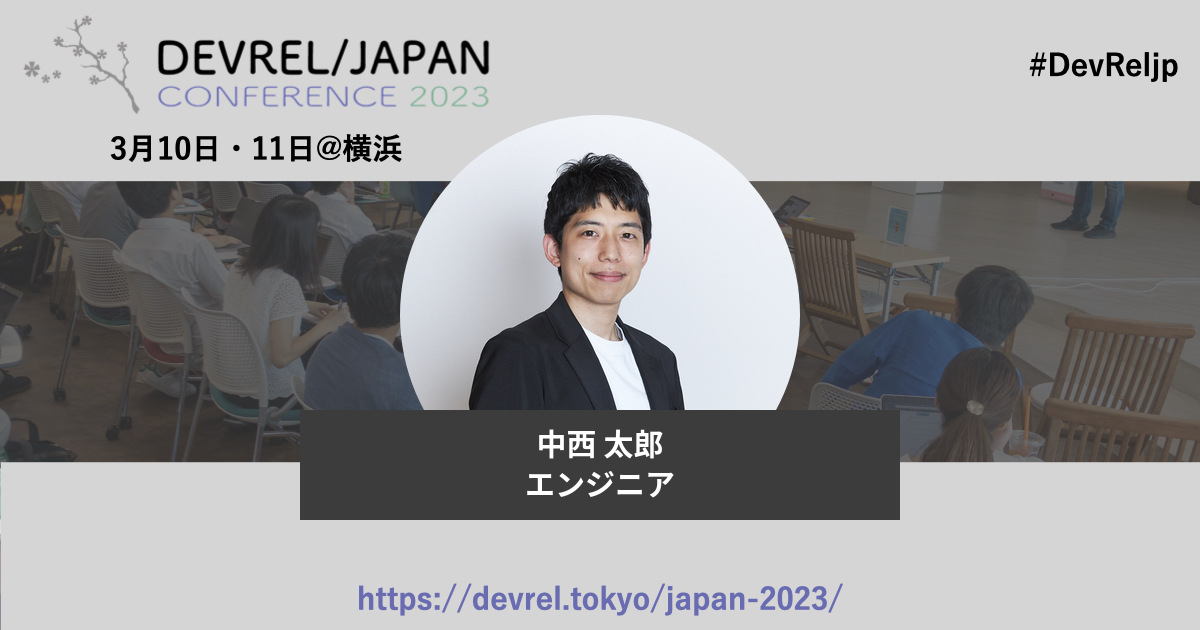
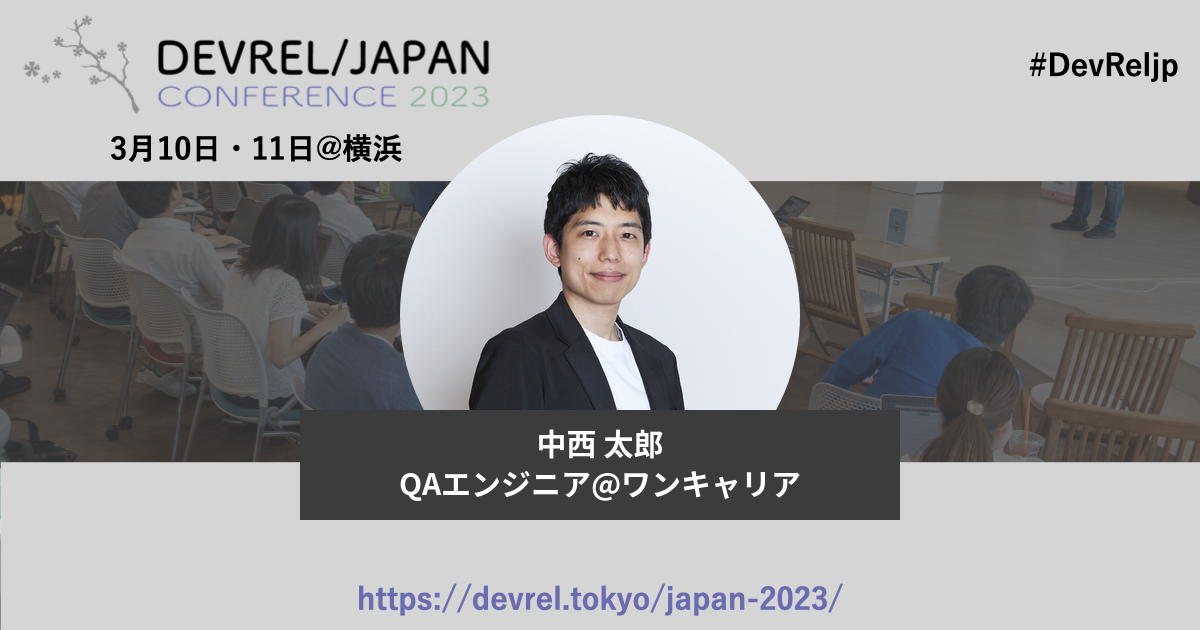
auto update

Changed region(s): [[0.3083, 0.7238, 0.6783, 0.8143]]

diff --git a/organizers/taro.md b/organizers/taro.md
@@ -1,7 +1,7 @@
 ---
 layout: person
 permalink: /organizers/taro/
-title: 中西 太郎@
+title: 中西 太郎@ワンキャリア
 ogp: /japan-2023/image/ogp/taro.jpg
 type: organizer
 id: taro
